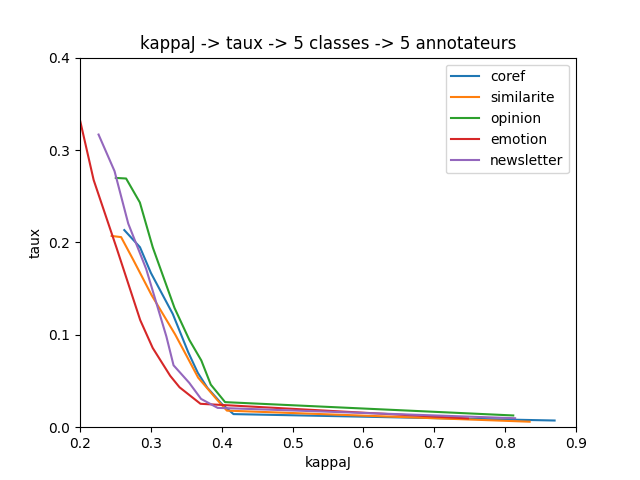
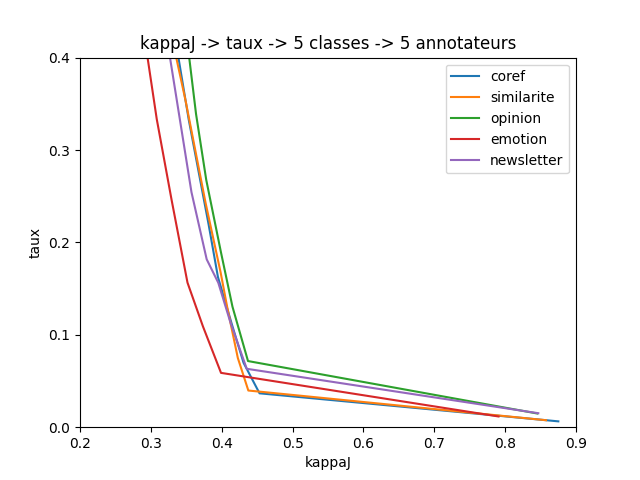
optimisation du Jeffrey

Changed region(s): [[0.125, 0.125, 0.875, 0.9062]]

diff --git a/simulation_sur_distri_reelles_2021_05.cpp b/simulation_sur_distri_reelles_2021_05.cpp
@@ -379,9 +379,9 @@ void unplusnbGgroupe(int nbG,int RefIni[],int nbIt,int nbC,int TE[],float TEIt[]
   float Tdist[MAXCL][MAXCL],Tdist2[MAXCL][MAXCL];
   annotations1groupe(RefIni,nbIt,nbC,TE,TEIt,nbA,moyA,sigmaA,TA,RefA,choix1,choix2);
   ajout_un(TA,nbIt,nbA,TA1);//classes numérotées de 1 à N
-  alphaR=alpha(TA1,nbIt,nbA,nbC);
-  transpose(TA,TTA,nbIt,nbA);
-  kappa=kappaAP(nbIt,nbC,nbA,TTA);
+  alphaR = alpha(TA1,nbIt,nbA,nbC);
+  transpose(TA, TTA, nbIt, nbA);
+  kappa = kappaAP(nbIt,nbC,nbA,TTA);
   //cout << "alpha=" << alphaR << endl;
   //alphaconf=calcul_alphaconf(TA,nbIt,nbA,nbC,Tdist,Tdist2);
   alphaconf=0;
@@ -434,8 +434,9 @@ void nbfois_unplusnbGgroupe(int nb,int nbG,int RefIni[],int nbIt,int nbC,int TE[
     }
     moymtauxErRef=moymtauxErRef/nb;
     moymtauxconf=moymtauxconf/nb;
-    moyalpha=moyalpha/nb;
-    moykappa=moykappa/nb;
+    cout << moymtauxconf << endl;
+    moyalpha = (moyalpha / nb);
+    moykappa = (moykappa / nb);
     moyalphaconf=moyalphaconf/nb;
     moycos_uniforme=moycos_uniforme/nb;
     moydistri_hasard=moydistri_hasard/nb;
@@ -488,8 +489,8 @@ void write_res_series(string corpus, int nbval, float moykappa[], float moyalpha
     for (int nb = 0; nb < nbval; nb++) {
       file1 << moykappa[nb] << "," << moymtauxErRef[nb]  << endl;
       file2 << moyalpha[nb] << "," << moymtauxErRef[nb] << endl;
-      file3 << (moyalpha[nb] * (1 - (distancemoytaux_distri_hasard[nb] / 2))) << "," << moymtauxErRef[nb] << endl;
-      file4 << (moykappa[nb] * (1 - (distancemoytaux_distri_hasard[nb] / 2))) << "," << moymtauxErRef[nb] << endl;
+      file3 << (moyalpha[nb] * (cos(distancemoytaux_distri_hasard[nb]))) << "," << (moymtauxErRef[nb] * exp(distancemoytaux_distri_hasard[nb])) << endl;
+      file4 << (moykappa[nb] * (cos(distancemoytaux_distri_hasard[nb]))) << "," << (moymtauxErRef[nb] * exp(distancemoytaux_distri_hasard[nb])) << endl;
     }
   }
   else
@@ -585,9 +586,9 @@ int main(int n,char * param[]) {
     cout << "Tdist2\n";
     for (int c1 = 0; c1 < nbC - 1; c1++) {
       for (int c2 = 0; c2 < nbC; c2++)
-        if (c2<=c1)
-          printf("%s  ", "_______");
-        else
+        //if (c2<=c1)
+          //printf("%s  ", "_______");
+        //else
           printf("%f ", Tdist2[c1][c2]);
       cout << endl;
     }
@@ -600,7 +601,7 @@ int main(int n,char * param[]) {
     int Tabannot[nbA][MAXIT];
 
     int nbG = 100; //nb de groupes auquel on compare un groupe, 100 par défaut
-    int nb = 50; //à revoir
+    int nb = 100; //à revoir
 
     // SERIES d'expé
     int choix1 = 1, choix2 = 1;

diff --git a/outils_distances.cpp b/outils_distances.cpp
@@ -193,14 +193,16 @@ void mesuresrepartitiondesaccords(int TConf[MAXCL][MAXCL],int T[MAXIT][MAXA],
 }
 
 //taux d'écarts entre deux ref, pondéré par la distance entre classes
-float tauxdiff2Refdist(int Ref1[],int Ref2[],int nbIt,float Tdist[MAXCL][MAXCL]){
-    float sommediff=0;
+float tauxdiff2Refdist(int Ref1[],int Ref2[],int nbIt,float Tdist[MAXCL][MAXCL]) {
+    float sommediff = 0;
     int c1,c2;
     for (int i=0;i<nbIt;i++) {
-        c1=Ref1[i];c2=Ref2[i];
-        if (c1!=c2) sommediff+=Tdist[c1][c2];
+        c1 = Ref1[i];
+        c2 = Ref2[i];
+        if (c1 != c2)
+          sommediff += Tdist[c1][c2];
     }
-    return sommediff/nbIt;
+    return sommediff / nbIt;
 }
 
 /***********************************************************/
@@ -386,12 +388,19 @@ float moy_vect_entier(int v[], int nbIt) {
   return 1.0 * (sum / nbIt);
 }
 
+// moyenne d'un vecteur d'entiers
+float ecart_type_vect_entier(int v[], int nbIt) {
+  float sum;
+  float moy = moy_vect_entier(v, nbIt);
+  for (int it = 0; it < nbIt; it++) {
+    sum += (v[it] - moy) * (v[it] - moy);
+  }
+  return sqrt((1.0 / nbIt) * sum);
+}
+
 // normalise un vecteur
 void normalise(float v[], int nbIt) {
-  float moy = moy_vect_reel(v, nbIt);
-  float ecart = ecart_type_vect_reel(v, nbIt);
   for (int it = 0; it < nbIt; it++) {
-    //v[it] = (v[it] - moy) / ecart;
     v[it] = (v[it] - min_vect_reel(v, nbIt)) / max_vect_reel(v, nbIt);
   }
 }
@@ -433,7 +442,7 @@ float histocorrelation_vect_entier(int v1[], int v2[], int nbIt) {
   return res;
 }
 
-// kappa2 distance
+// chi2 distance
 float chi2_vect_entier(int v1[], int v2[], int nbIt) {
   float sum;
   for (int it = 0; it < nbIt; it++) {
@@ -493,6 +502,16 @@ float B_vect_entier(int v1[],int v2[],int nbIt) {
     sum += sqrt(v1[it] * v2[it]);
   }
   return - log(sum);
+}
+
+// distance euclidienne normalisée
+float eucnormalise_vect_entier(int v1[], int v2[], int nbIt) {
+  float ecart = ecart_type_vect_entier(v1, nbIt);
+  float sum;
+  for (int it = 0; it < nbIt; it++) {
+    sum += ((v1[it] - v2[it]) * (v1[it] - v2[it])) / ecart;
+  }
+  return sqrt(sum);
 }
 
 float distance_vect_entier(int v1[],int v2[],int nbIt) {
